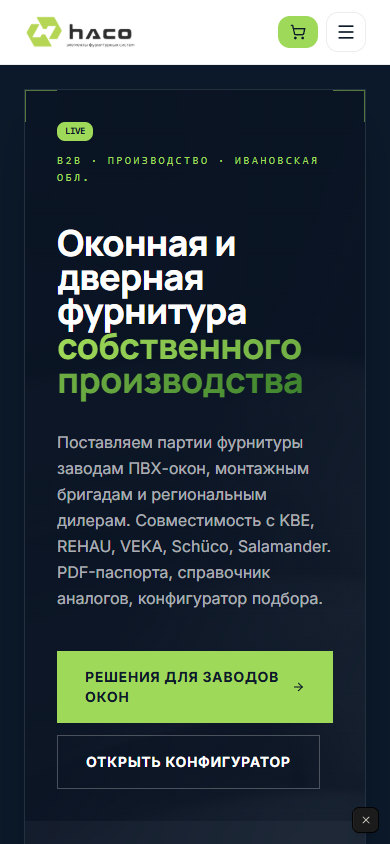
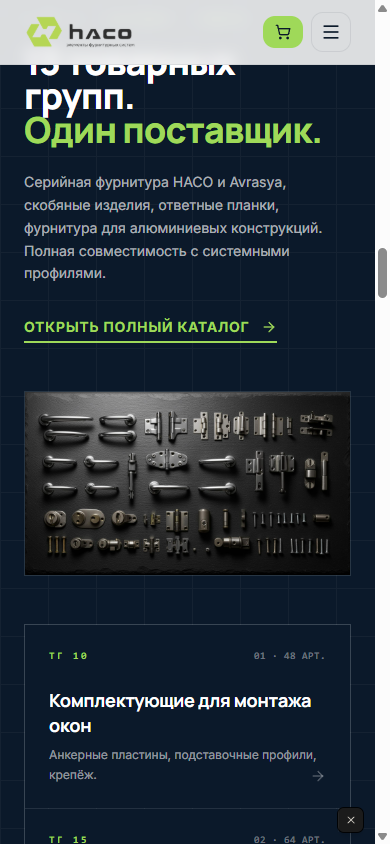
inhaco: убрал full-page снимки, оставил только блоки
— Удалён figure «Главная — полный лендинг» (был >1MB full-page).
— mobile-01-hero пересняна как viewport (hero вместо full-page).
— mobile-02 пересняна как блок «13 товарных групп» в mobile.
— Описание секции #improve обновлено: «ключевые блоки крупным планом».

diff --git a/inhaco/index.html b/inhaco/index.html
@@ -3599,27 +3599,15 @@ footer {
           <div class="r reveal">
             Главная нового сайта&nbsp;— уже сейчас собрана в&nbsp;цельный лендинг
             для&nbsp;заводов окон, монтажников и&nbsp;дилеров. Ниже&nbsp;—
-            полный лендинг сверху донизу + ключевые блоки крупным планом:
-            hero и&nbsp;цифры, 4&nbsp;аудитории, 13&nbsp;товарных групп,
-            бренды Avrasya и&nbsp;HACO, производственные услуги, типовые сценарии
-            и&nbsp;CTA. Внутренние страницы (каталог, карточка, ЛК) — на&nbsp;этапе UI.
+            ключевые блоки главной крупным планом: hero и&nbsp;цифры,
+            4&nbsp;аудитории, 13&nbsp;товарных групп, бренды Avrasya и&nbsp;HACO,
+            производственные услуги, типовые сценарии и&nbsp;CTA.
+            Внутренние страницы (каталог, карточка, ЛК) — на&nbsp;этапе UI.
           </div>
         </div>
 
 <!-- ——— Прото-галерея: скриншоты в исходном соотношении ——— -->
         <div class="proto-gallery" style="display:flex; flex-direction:column; gap:32px; margin-bottom: 16px;">
-
-          <!-- Главная — полный лендинг (full-page) -->
-          <figure class="reveal" style="margin:0; background:#fff; border-radius:16px; border:1px solid var(--line); box-shadow: var(--shadow-lg); overflow:hidden;">
-            <div style="display:flex; align-items:center; gap:8px; padding:12px 18px; background: var(--bg-2); border-bottom:1px solid var(--line);">
-              <span style="width:10px; height:10px; border-radius:50%; background:#ff6053; display:inline-block;"></span>
-              <span style="width:10px; height:10px; border-radius:50%; background:#ffbc2e; display:inline-block;"></span>
-              <span style="width:10px; height:10px; border-radius:50%; background:#28c93f; display:inline-block;"></span>
-              <span style="font-family: 'Courier New', monospace; font-size:12px; color: var(--muted); margin-left:14px;">inhaco.ru</span>
-              <span style="margin-left:auto; font-size:11px; font-weight:800; letter-spacing:.08em; text-transform:uppercase; color: var(--blue-2);">Главная — полный лендинг</span>
-            </div>
-            <img src="media/future-website/desktop-01-hero.png" alt="Главная сайта inhaco.ru сверху донизу: hero, 4 аудитории, 13 ТГ, бренды, услуги, сценарии, CTA" loading="lazy" style="display:block; width:100%; height:auto;" />
-          </figure>
 
           <!-- Hero и цифры -->
           <figure class="reveal" style="margin:0; background:#fff; border-radius:16px; border:1px solid var(--line); box-shadow: var(--shadow-lg); overflow:hidden;">
@@ -3701,9 +3689,9 @@ footer {
                 <span style="width:10px; height:10px; border-radius:50%; background:#ffbc2e; display:inline-block;"></span>
                 <span style="width:10px; height:10px; border-radius:50%; background:#28c93f; display:inline-block;"></span>
                 <span style="font-family: 'Courier New', monospace; font-size:12px; color: var(--muted); margin-left:14px;">inhaco.ru</span>
-                <span style="margin-left:auto; font-size:11px; font-weight:800; letter-spacing:.08em; text-transform:uppercase; color: var(--spark);">Главная · mobile, лендинг</span>
+                <span style="margin-left:auto; font-size:11px; font-weight:800; letter-spacing:.08em; text-transform:uppercase; color: var(--spark);">Главная · mobile, hero</span>
               </div>
-              <img src="media/future-website/mobile-01-hero.png" alt="Полный мобильный лендинг главной inhaco.ru: hero, аудитории, каталог, бренды, услуги, сценарии, CTA" loading="lazy" style="display:block; width:100%; height:auto;" />
+              <img src="media/future-website/mobile-01-hero.png" alt="Hero главной inhaco.ru в мобильной версии: h1, подзаголовок, CTA, цифры" loading="lazy" style="display:block; width:100%; height:auto;" />
             </figure>
             <figure style="margin:0; background:#fff; border-radius:16px; border:1px solid var(--line); box-shadow: var(--shadow-lg); overflow:hidden;">
               <div style="display:flex; align-items:center; gap:8px; padding:12px 18px; background: var(--bg-2); border-bottom:1px solid var(--line);">
@@ -3711,9 +3699,9 @@ footer {
                 <span style="width:10px; height:10px; border-radius:50%; background:#ffbc2e; display:inline-block;"></span>
                 <span style="width:10px; height:10px; border-radius:50%; background:#28c93f; display:inline-block;"></span>
                 <span style="font-family: 'Courier New', monospace; font-size:12px; color: var(--muted); margin-left:14px;">inhaco.ru</span>
-                <span style="margin-left:auto; font-size:11px; font-weight:800; letter-spacing:.08em; text-transform:uppercase; color: var(--spark);">Главная · mobile, hero</span>
+                <span style="margin-left:auto; font-size:11px; font-weight:800; letter-spacing:.08em; text-transform:uppercase; color: var(--spark);">Главная · mobile, 13&nbsp;товарных&nbsp;групп</span>
               </div>
-              <img src="media/future-website/mobile-02-catalog.png" alt="Hero главной в мобильной версии: h1, подзаголовок, CTA" loading="lazy" style="display:block; width:100%; height:auto;" />
+              <img src="media/future-website/mobile-02-catalog.png" alt="Каталожный блок главной в мобильной версии: список 13 ТГ-категорий" loading="lazy" style="display:block; width:100%; height:auto;" />
             </figure>
           </div>
 